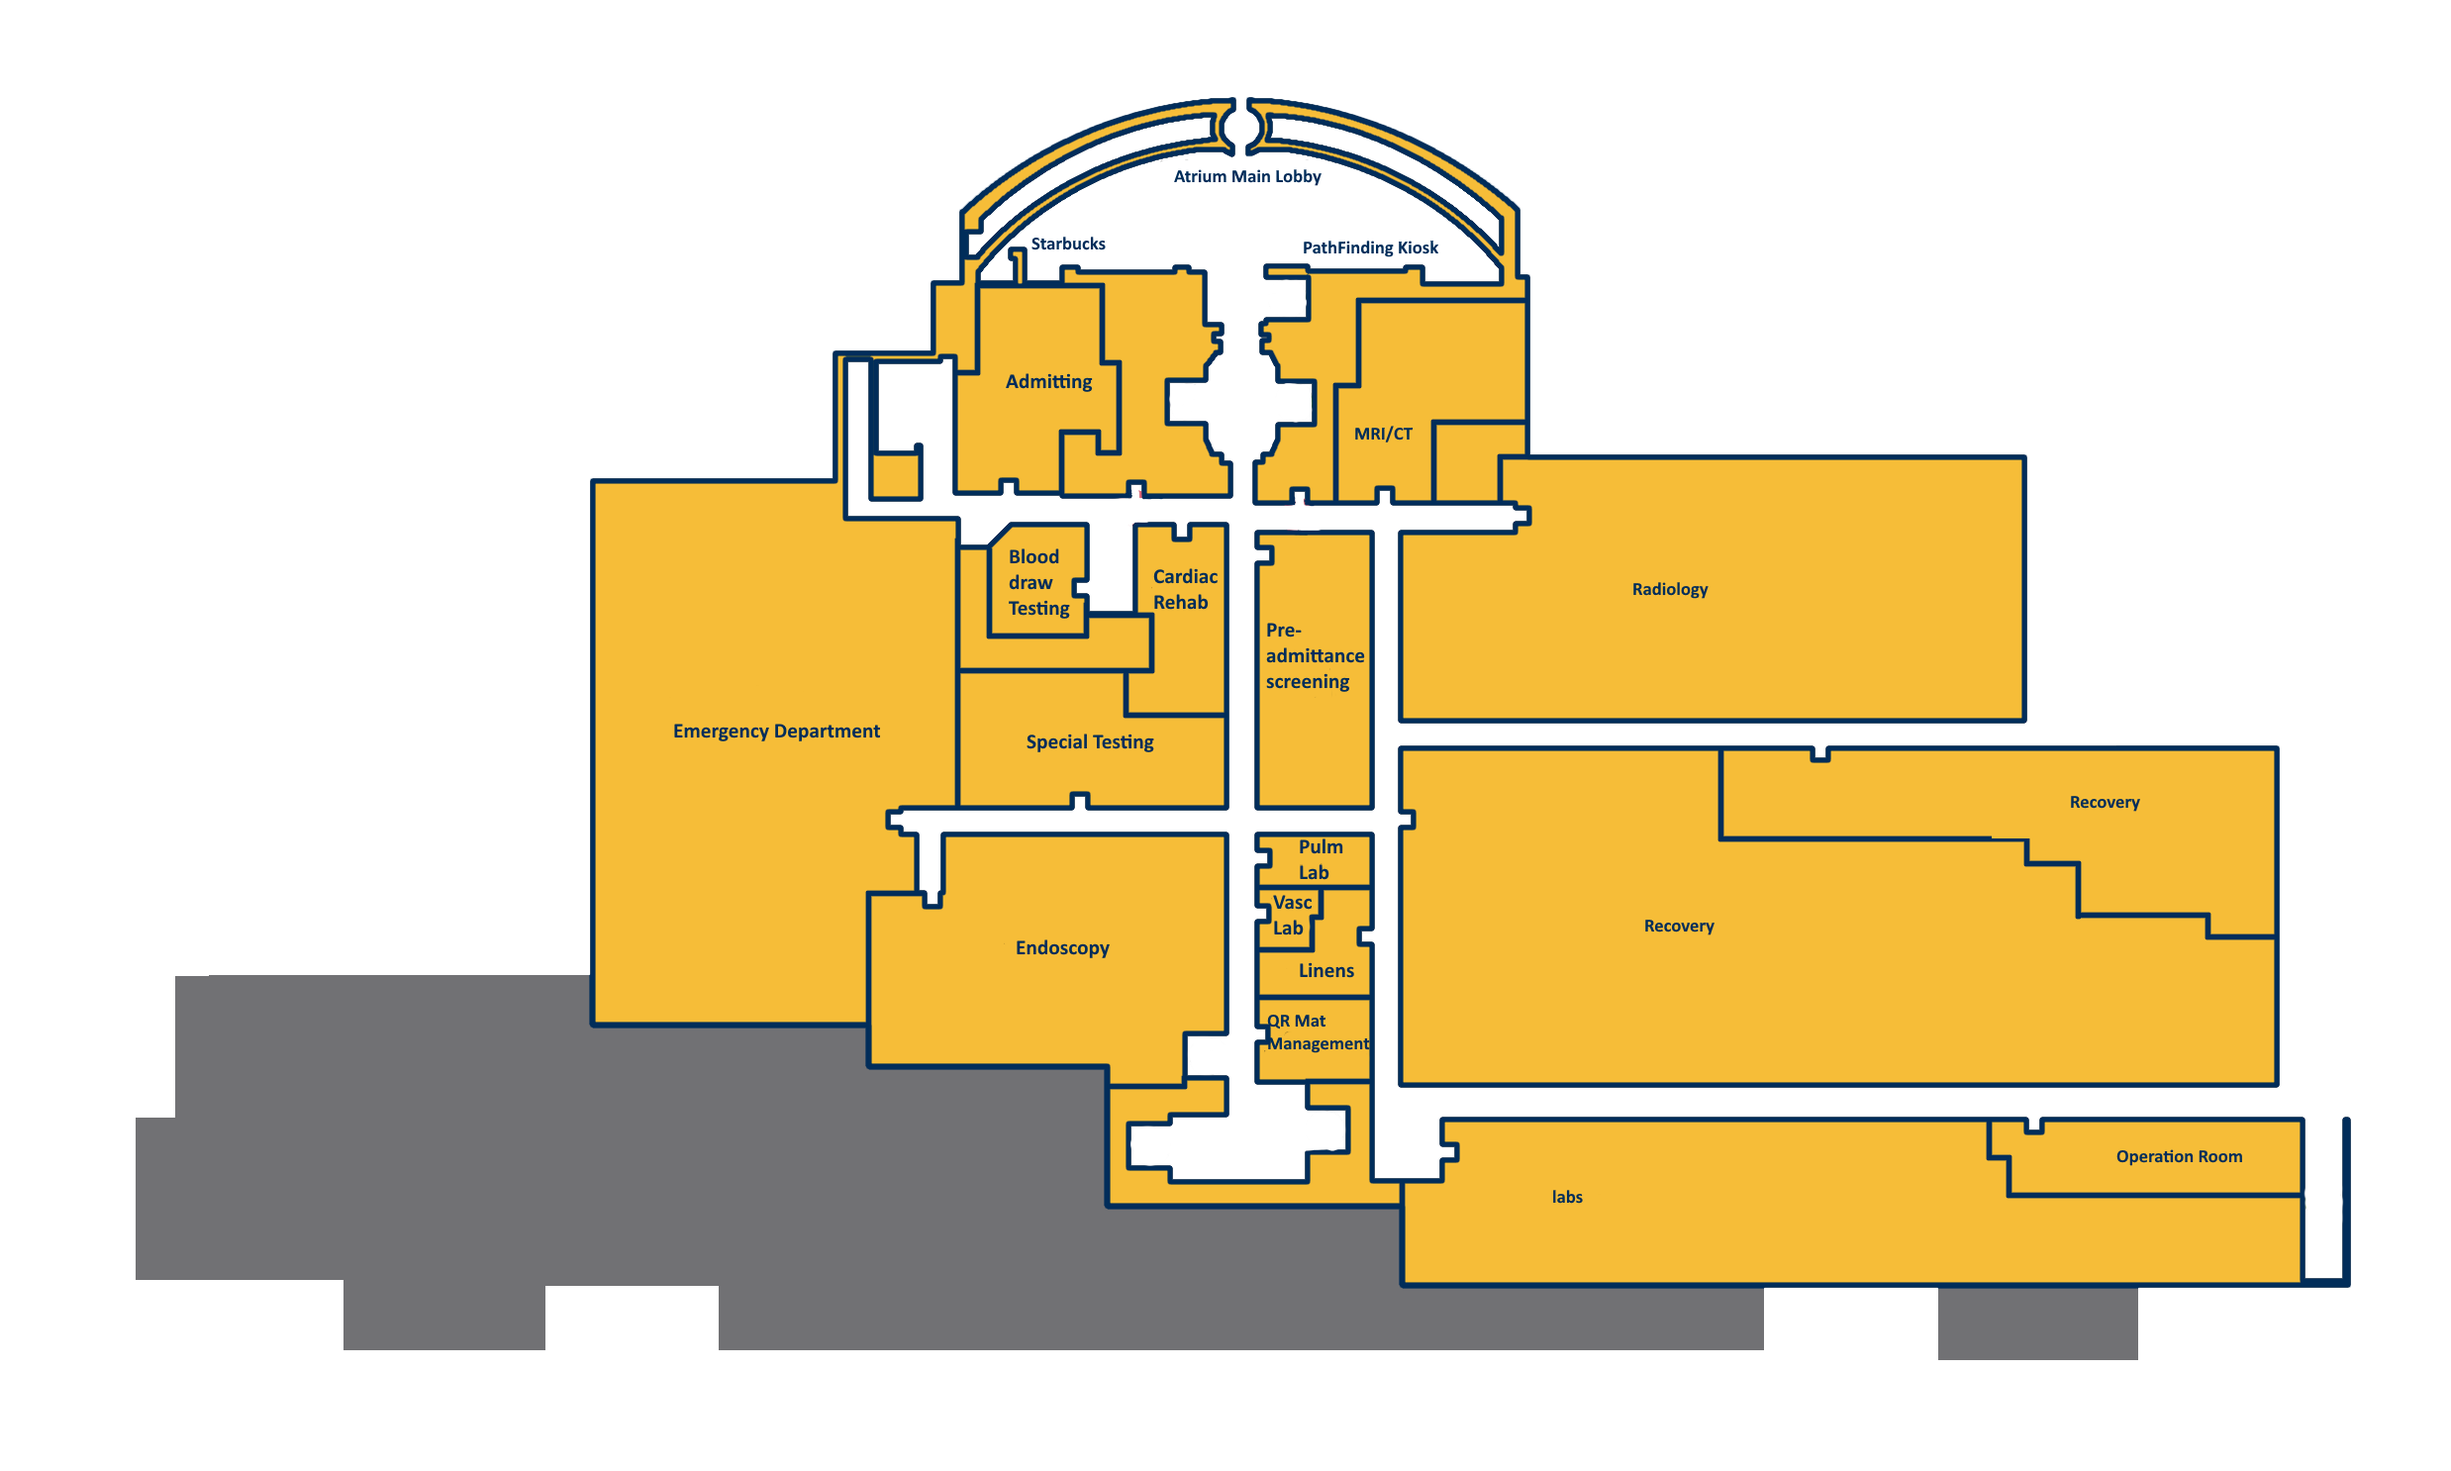
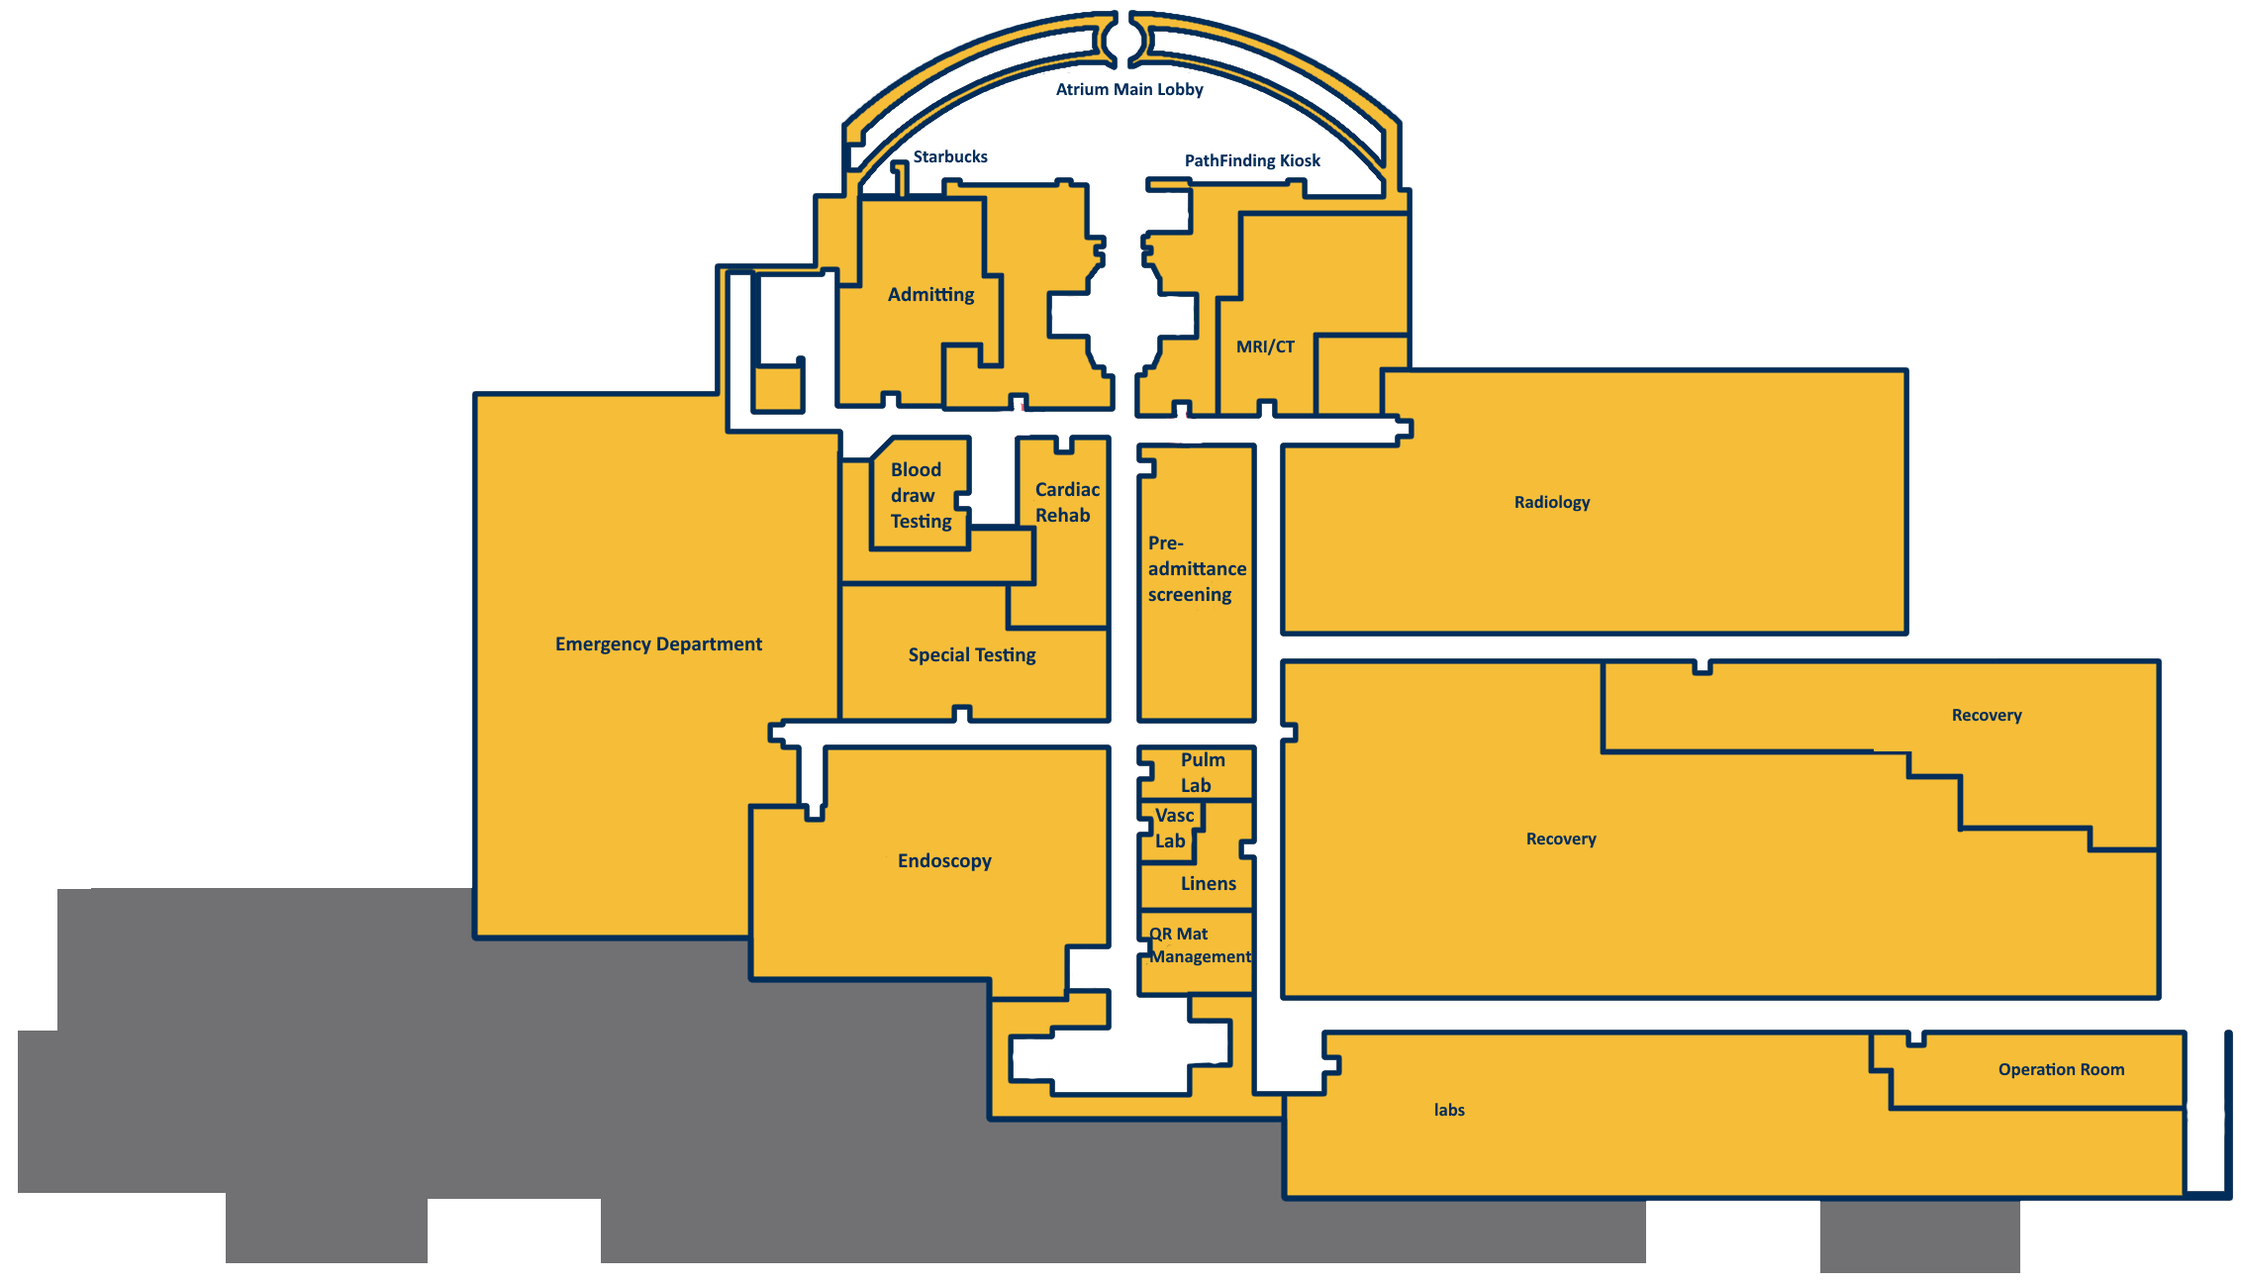
Map UI mostly scales

diff --git a/hospital-app/src/main/java/edu/wpi/cs3733/c21/teamI/view/MapController.java b/hospital-app/src/main/java/edu/wpi/cs3733/c21/teamI/view/MapController.java
@@ -2,7 +2,6 @@ package edu.wpi.cs3733.c21.teamI.view;
 
 import com.jfoenix.controls.JFXComboBox;
 import edu.wpi.cs3733.c21.teamI.ApplicationDataController;
-import edu.wpi.cs3733.c21.teamI.database.NavDatabaseManager;
 import edu.wpi.cs3733.c21.teamI.hospitalMap.EuclidianDistCalc;
 import edu.wpi.cs3733.c21.teamI.hospitalMap.HospitalMapNode;
 import edu.wpi.cs3733.c21.teamI.hospitalMap.LocationNode;
@@ -21,13 +20,14 @@ import javafx.beans.property.ObjectProperty;
 import javafx.beans.property.SimpleObjectProperty;
 import javafx.beans.value.ChangeListener;
 import javafx.event.ActionEvent;
+import javafx.event.Event;
 import javafx.event.EventHandler;
 import javafx.fxml.FXML;
-import javafx.fxml.FXMLLoader;
 import javafx.geometry.Point2D;
 import javafx.geometry.Rectangle2D;
 import javafx.scene.control.Button;
 import javafx.scene.control.ListView;
+import javafx.scene.control.Tab;
 import javafx.scene.control.TextField;
 import javafx.scene.image.Image;
 import javafx.scene.image.ImageView;
@@ -35,6 +35,8 @@ import javafx.scene.input.KeyEvent;
 import javafx.scene.input.MouseButton;
 import javafx.scene.input.MouseEvent;
 import javafx.scene.layout.AnchorPane;
+import javafx.scene.layout.StackPane;
+import javafx.scene.layout.VBox;
 import javafx.scene.paint.Color;
 import javafx.scene.shape.Circle;
 import javafx.scene.shape.Line;
@@ -55,8 +57,10 @@ public class MapController extends Application {
   private boolean isDrag = false;
   private boolean isFirstLoad = true;
   @FXML AnchorPane mapPane;
-  @FXML AnchorPane tabPane;
+  //  @FXML StackPane tabPane;
   @FXML ImageView mapImage;
+  @FXML StackPane imageContainer;
+  @FXML VBox stackContainer;
 
   private final double scale = 3.05;
   private EuclidianDistCalc scorer = new EuclidianDistCalc();
@@ -74,13 +78,18 @@ public class MapController extends Application {
       startEditView();
     } else {
       try {
-        mapImage.setImage(
+        Image background =
             new Image(
                 (getClass()
                         .getResource(
                             "/fxml/mapImages/" + ViewManager.getMapID().replace(" ", "") + ".png"))
                     .toURI()
-                    .toString()));
+                    .toString());
+        mapImage.setImage(background);
+        fullImgWidth = background.getWidth();
+        fullImgHeight = background.getHeight();
+        imgWidth = background.getWidth();
+        imgHeight = background.getHeight();
       } catch (URISyntaxException e) {
         e.printStackTrace();
       }
@@ -383,11 +392,12 @@ public class MapController extends Application {
   }
 
   @FXML
-  public void initialize() throws IOException {
+  public void initialize() {
+    currentTab = campus;
     startZoomPan(mapPane);
     ViewManager.setMapController(this);
-    tabPane.getChildren().clear();
-    tabPane.getChildren().add(FXMLLoader.load(getClass().getResource("/fxml/TabPane.fxml")));
+    mapImage.fitWidthProperty().bind(imageContainer.widthProperty());
+    mapImage.fitHeightProperty().bind(imageContainer.heightProperty());
     setupMapViewHandlers();
     boolean isAdmin =
         ApplicationDataController.getInstance()
@@ -474,10 +484,7 @@ public class MapController extends Application {
     for (HospitalMapNode child : node.getConnections()) {
       if (!node.getMapID().equals(child.getMapID())) {
         Circle highlight =
-            new Circle(
-                (node.getxCoord() * imgWidth / 100000 / scale),
-                (node.getyCoord() * imgHeight / 100000 / scale),
-                20 / scale);
+            new Circle(transformX(node.getxCoord()), transformY(node.getyCoord()), 20 / scale);
         highlight.setFill(Color.GREEN);
         mapPane.getChildren().add(highlight);
       }
@@ -584,6 +591,69 @@ public class MapController extends Application {
     System.out.print("NodeRestrictions:" + this.scorer.nodeTypesToAvoid);
   }
 
+  @FXML Tab campus;
+  @FXML Tab floor1;
+  @FXML Tab floor2;
+  @FXML Tab floor3;
+  @FXML Tab floor4;
+  @FXML Tab floor6;
+  private Tab currentTab = null;
+
+  public void campusTab(Event event) {
+    if (campus != currentTab && currentTab != null) {
+      System.out.println("Tab 1");
+      ViewManager.setActiveMap("Faulkner 0");
+      updateView();
+      currentTab = campus;
+    }
+  }
+
+  public void floor1Tab(Event event) {
+    if (floor1 != currentTab) {
+      System.out.println("Tab 2");
+      ViewManager.setActiveMap("Faulkner 1");
+      updateView();
+      currentTab = floor1;
+    }
+  }
+
+  public void floor2Tab(Event event) {
+    if (floor2 != currentTab) {
+      System.out.println("Tab 3");
+      ViewManager.setActiveMap("Faulkner 2");
+      updateView();
+      currentTab = floor2;
+    }
+  }
+
+  public void floor3Tab(Event event) {
+    if (floor3 != currentTab) {
+
+      System.out.println("Tab 4");
+      ViewManager.setActiveMap("Faulkner 3");
+      updateView();
+      currentTab = floor3;
+    }
+  }
+
+  public void floor4Tab(Event event) {
+    if (floor4 != currentTab) {
+      System.out.println("Tab 5");
+      ViewManager.setActiveMap("Faulkner 4");
+      updateView();
+      currentTab = floor4;
+    }
+  }
+
+  public void floor5Tab(Event event) {
+    if (floor6 != currentTab) {
+      System.out.println("Tab 6");
+      ViewManager.setActiveMap("Faulkner 5");
+      updateView();
+      currentTab = floor6;
+    }
+  }
+
   // Scaling code is from https://gist.github.com/james-d/ce5ec1fd44ce6c64e81a
   private static final int MIN_PIXELS = 200;
 
@@ -620,6 +690,7 @@ public class MapController extends Application {
 
     zoomPane.setOnScroll(
         e -> {
+          //          System.out.println(im);
           double delta = e.getDeltaY();
           Rectangle2D viewport = mapImage.getViewport();
           double scale =

diff --git a/hospital-app/src/main/java/edu/wpi/cs3733/c21/teamI/view/ViewManager.java b/hospital-app/src/main/java/edu/wpi/cs3733/c21/teamI/view/ViewManager.java
@@ -21,6 +21,7 @@ import javafx.scene.control.Button;
 import javafx.scene.control.ListView;
 import javafx.scene.control.TextField;
 import javafx.scene.input.KeyEvent;
+import javafx.scene.layout.StackPane;
 import javafx.stage.Stage;
 
 public class ViewManager {
@@ -29,7 +30,7 @@ public class ViewManager {
   private static Group root = null;
   private static Stage stage = null;
   private static String selectedNode = null;
-  private static String selectedNodeMapID = null;
+  private static String selectedNodeMapID = "Faulkner 0";
   private static final MapEditDataController dataCont = new MapEditDataController();
   private static ServiceTicket serviceTicketToShow;
   private static MapController mapControl = null;
@@ -37,7 +38,7 @@ public class ViewManager {
   public ViewManager() {}
 
   public static void navigate(ActionEvent e) throws IOException {
-    Group root = new Group();
+    StackPane root = new StackPane();
     Scene scene = ((Button) e.getSource()).getScene();
     String id = ((Button) e.getSource()).getId();
     if (id.equals("mapReturn") || id.equals("requestsReturn") || id.equals("loginReturn")) {
@@ -45,8 +46,7 @@ public class ViewManager {
     } else if (id.equals("sanitationReturn") || id.equals("maintenanceReturn")) {
       root.getChildren().add(FXMLLoader.load(ViewManager.class.getResource("/fxml/Requests.fxml")));
     } else if (id.equals("map")) {
-      root.getChildren()
-          .add(FXMLLoader.load(ViewManager.class.getResource("/fxml/Pathfinding.fxml")));
+      root = FXMLLoader.load(ViewManager.class.getResource("/fxml/Pathfinding.fxml"));
     } else if (id.equals("serviceRequests")) {
       root.getChildren().add(FXMLLoader.load(ViewManager.class.getResource("/fxml/Requests.fxml")));
     } else if (id.equals("maintenance")) {
@@ -87,7 +87,6 @@ public class ViewManager {
         (((TextField) e.getSource()).getText()
                 + (!e.getCharacter().equals(Character.toString((char) 8)) ? e.getCharacter() : ""))
             .toLowerCase();
-    Map<String, HospitalMap> source = NavDatabaseManager.getInstance().loadMapsFromMemory();
     ArrayList<String> nodeNames =
         getAllNodesSet().stream()
             .filter(n -> n instanceof LocationNode)

diff --git a/hospital-app/src/main/java/edu/wpi/cs3733/c21/teamI/view/TabController.java b/hospital-app/src/main/java/edu/wpi/cs3733/c21/teamI/view/TabController.java
@@ -1,6 +1,5 @@
-package edu.wpi.cs3733.c21.teamI.view.menu.tabprototype;
+package edu.wpi.cs3733.c21.teamI.view;
 
-import edu.wpi.cs3733.c21.teamI.view.ViewManager;
 import java.net.URL;
 import java.util.ResourceBundle;
 import javafx.application.Application;
@@ -10,7 +9,7 @@ import javafx.fxml.Initializable;
 import javafx.scene.control.Tab;
 import javafx.stage.Stage;
 
-public class TabPane extends Application implements Initializable {
+public class TabController extends Application implements Initializable {
   @FXML Tab campus;
   @FXML Tab floor1;
   @FXML Tab floor2;
